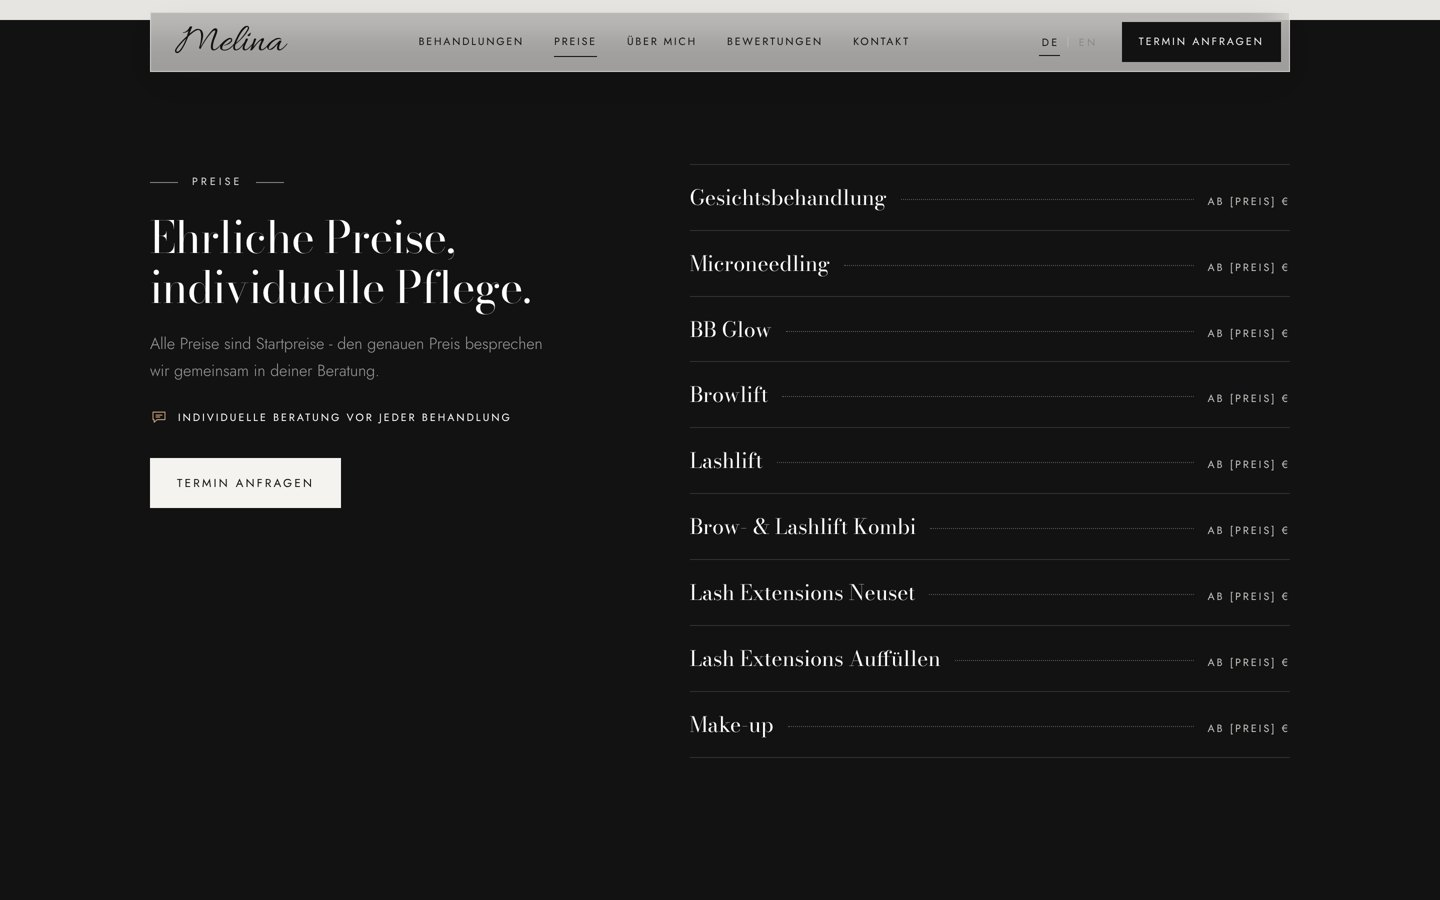
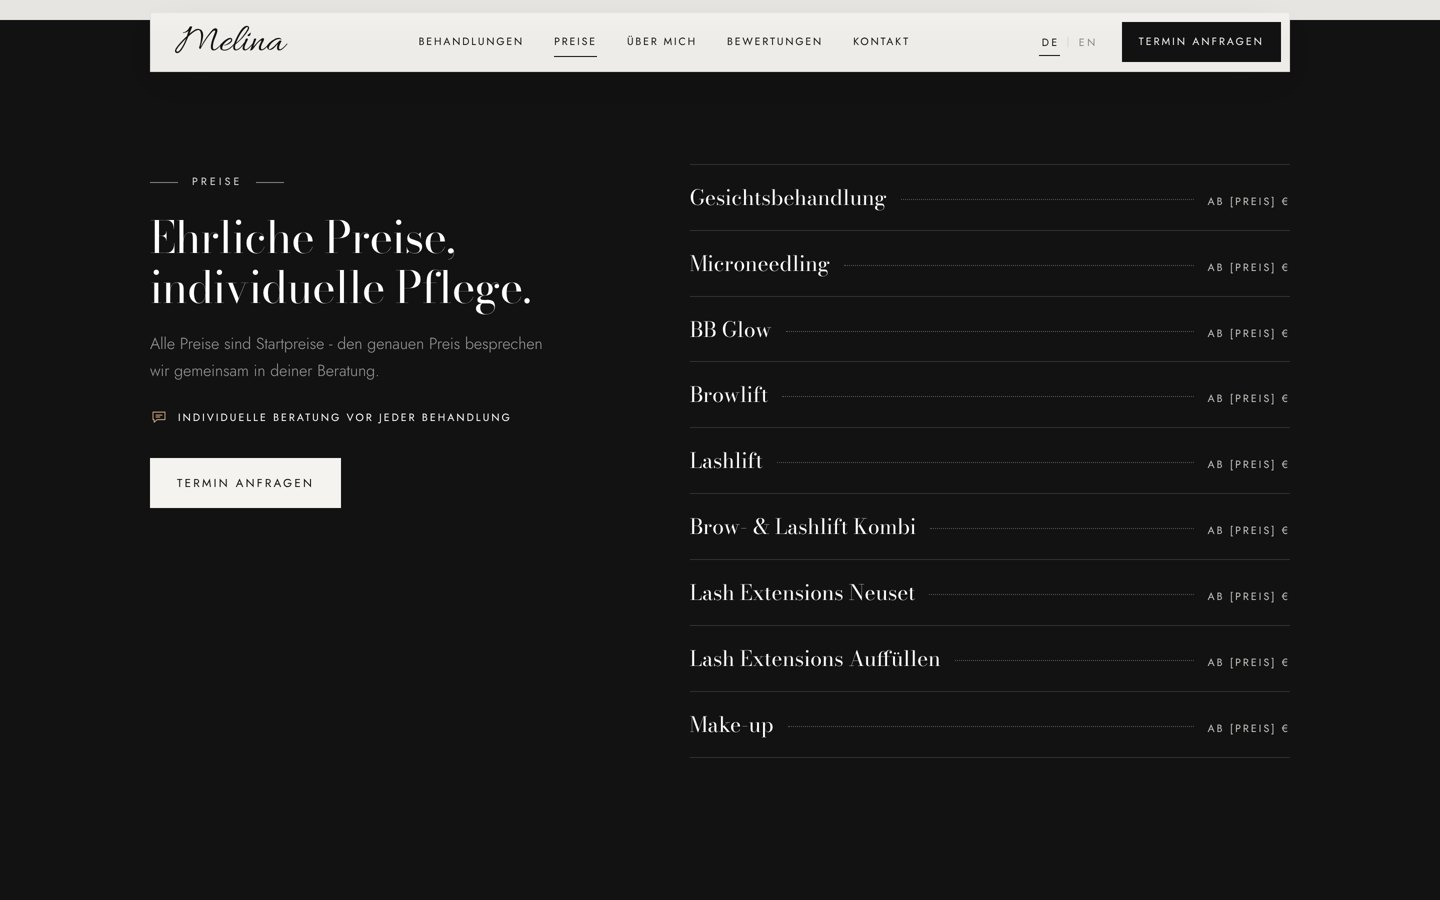
Scrolled navbar: solid light bar instead of see-through glass
Transparent over the hero as before; once scrolled the bar is light
(97% paper) everywhere, so it no longer turns grey over dark sections.
Navbar screenshots refreshed.

Claude-Session: https://claude.ai/code/session_011h5gr7MbFbF2xKEt5sjZqG

Changed region(s): [[0.0938, 0.0, 0.9062, 0.0933]]

diff --git a/styles.css b/styles.css
@@ -1216,3 +1216,10 @@ p { text-wrap: pretty; }
 .nav:not(.is-scrolled):not(.nav--solid):not(.menu-open) .burger span { background: var(--white); }
 .nav:not(.is-scrolled):not(.nav--solid):not(.menu-open) .nav__cta { background: var(--paper); color: var(--ink); }
 .nav:not(.is-scrolled):not(.nav--solid):not(.menu-open) .nav__cta::before { background: var(--white); }
+
+/* scrolled navbar: solid light bar everywhere (no grey glass over dark sections) */
+.nav.is-scrolled .nav__bar, .nav.nav--solid .nav__bar, .nav.menu-open .nav__bar {
+  background: rgba(246, 244, 241, .97);
+  border-color: rgba(18, 18, 18, .06);
+  -webkit-backdrop-filter: blur(12px); backdrop-filter: blur(12px);
+}
